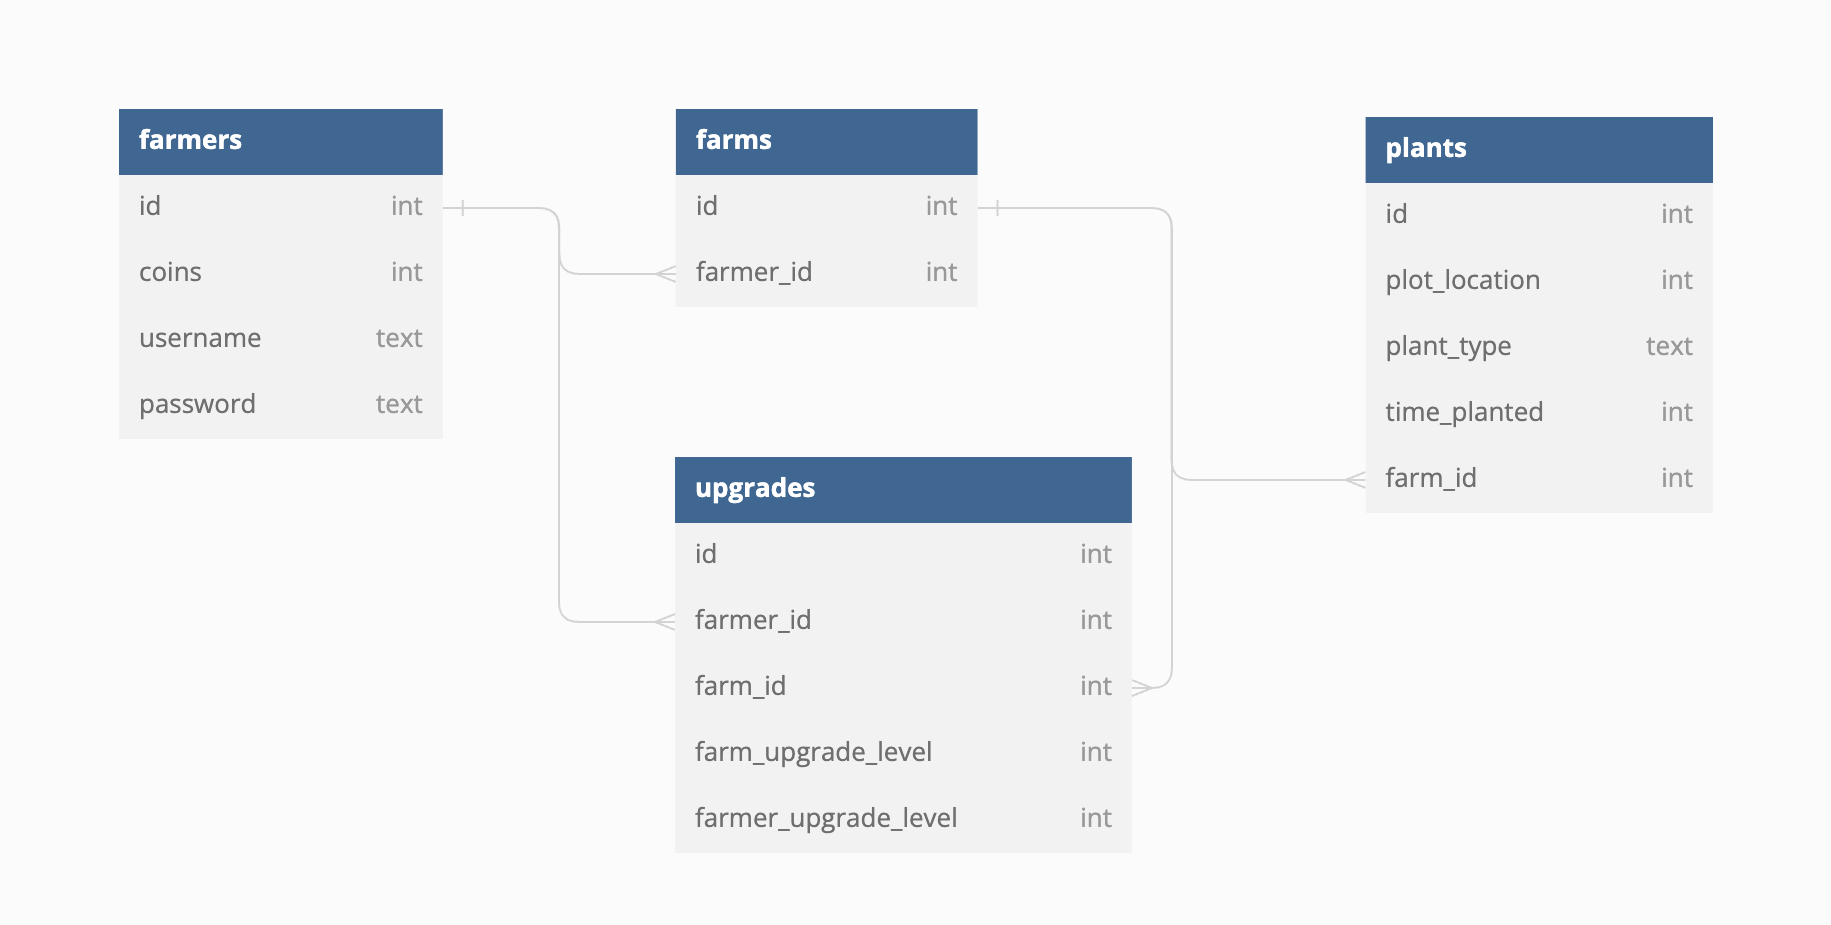
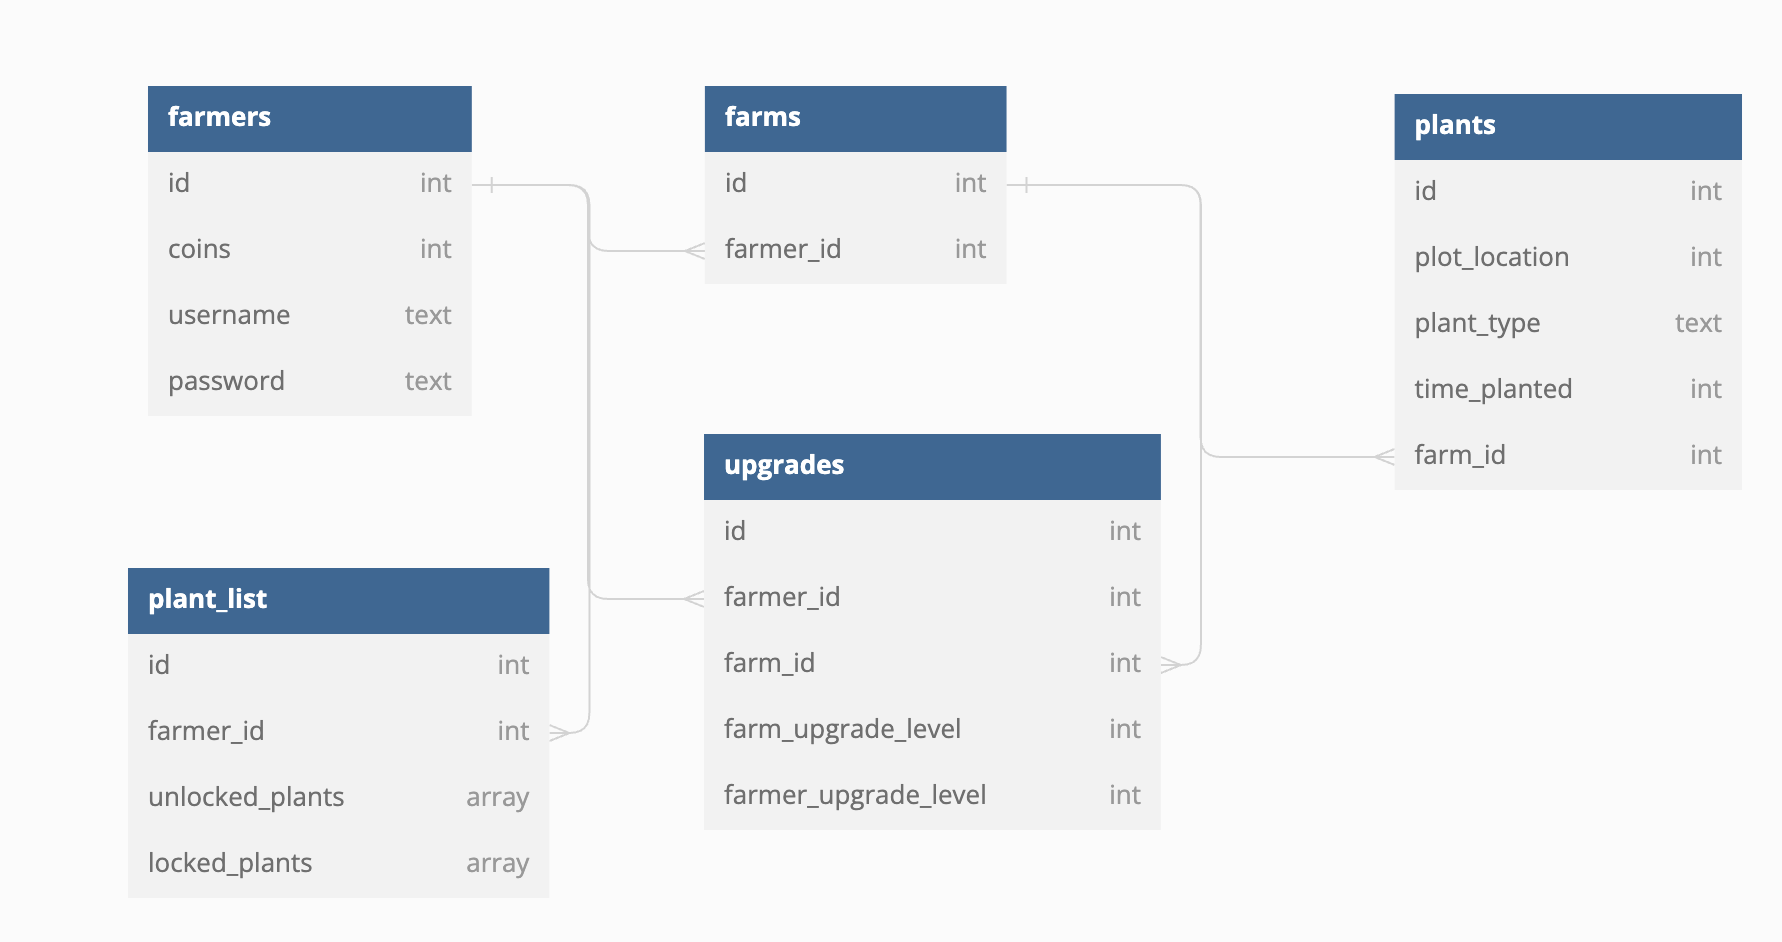
added migrations

diff --git a/db/migrate/20220930172405_create_plant_list.rb b/db/migrate/20220930172405_create_plant_list.rb
@@ -1,0 +1,4 @@
+class CreatePlantList < ActiveRecord::Migration[6.1]
+  def change
+  end
+end

diff --git a/db/migrate/20220930172428_create_upgrade.rb b/db/migrate/20220930172428_create_upgrade.rb
@@ -1,0 +1,4 @@
+class CreateUpgrade < ActiveRecord::Migration[6.1]
+  def change
+  end
+end

diff --git a/db/migrate/20220930172340_create_farmer.rb b/db/migrate/20220930172340_create_farmer.rb
@@ -1,0 +1,4 @@
+class CreateFarmer < ActiveRecord::Migration[6.1]
+  def change
+  end
+end

diff --git a/db/migrate/20220930172351_create_plant.rb b/db/migrate/20220930172351_create_plant.rb
@@ -1,0 +1,4 @@
+class CreatePlant < ActiveRecord::Migration[6.1]
+  def change
+  end
+end

diff --git a/db/migrate/20220930172310_create_farm.rb b/db/migrate/20220930172310_create_farm.rb
@@ -1,0 +1,4 @@
+class CreateFarm < ActiveRecord::Migration[6.1]
+  def change
+  end
+end
